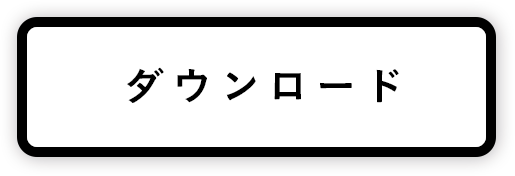
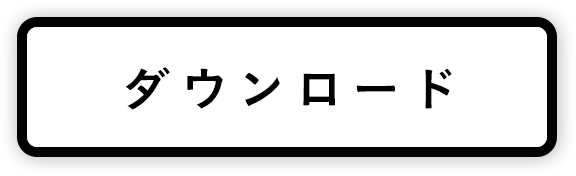
Revert "update for recording"
This reverts commit f353b7764861cf9989cdad6e44dce3021ba699bf.

diff --git a/public/stylesheets/demo.css b/public/stylesheets/demo.css
@@ -20,8 +20,8 @@ body.face-new {
 
 body.face-new a {
   display: block;
+  /*width: 300px;*/
   height: 88px;
-  width: 259px;
   margin: auto auto;
   margin-top: 370px;
   background-image: url('/images/demo/btn_photo_normal.png');
@@ -40,14 +40,13 @@ body.face-show {
 body.face-show a.demoDownload.touchButton {
   display: block;
   /*width: 300px;*/
-  height: 73px;
-  width: 258px;
+  height: 88px;
   margin: auto auto;
   margin-top: 105px;
   background-image: url('/images/demo/btn_download.png');
   background-repeat: no-repeat;
   background-size: contain;
-  padding-bottom: 50px;
+  padding-bottom:50px;
 }
 
 body.face-show a.demoDownload.touchButton.touched {
@@ -56,16 +55,16 @@ body.face-show a.demoDownload.touchButton.touched {
 
 body.face-show a.backButton.touchButton {
   display: block;
-  height: 73px;
-  width: 258px;
-  margin: auto auto;
+  /*width: 138.5px;*/
+  height: 23.5px;
+  margin-left: 5px;
   margin-top: 145px;
-  margin-bottom: 20px;
-  background-image: url('/images/demo/btn_retry.png');
+  margin-bottom:20px;
+  background-image: url('/images/demo/btn_back.png');
   background-repeat: no-repeat;
   background-size: contain;
 }
 
 body.face-show a.backButton.touchButton.touched {
-  background-image: url('/images/demo/btn_retry_on.png');
+  background-image: url('/images/demo/btn_back_on.png');
 }

diff --git a/public/javascripts/demo.js b/public/javascripts/demo.js
@@ -7,23 +7,10 @@ $(function() {
 
   $('input#demoImageBtn').on('change', function(event) {
     var div = document.createElement('div')
-      , spinner = new Spinner({
-            color: '#fff'
-          , lines: 13
-          , length: 5
-          , width: 2
-          , radius: 6
-          , corners: 1.0
-          , rotate: 0
-          , trail: 60
-          , speed: 1.0
-        }).spin(div);
+      , spinner = new Spinner({ color: '#fff' }).spin(div);
     
     $.blockUI({ message: div });
-    
-    $(document.body).one('click touchstart', function() {
-      $('form#demoForm').trigger('submit');      
-    });
+    $('form#demoForm').trigger('submit');
   });
   
   $('#demoCapture').on('click', function(event) {
